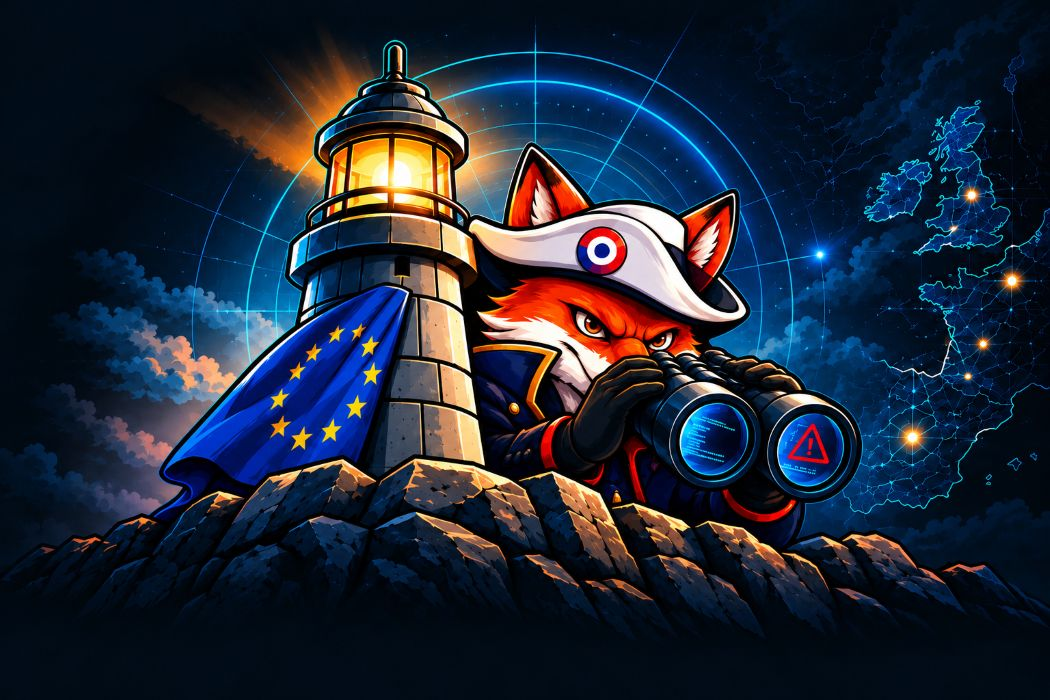
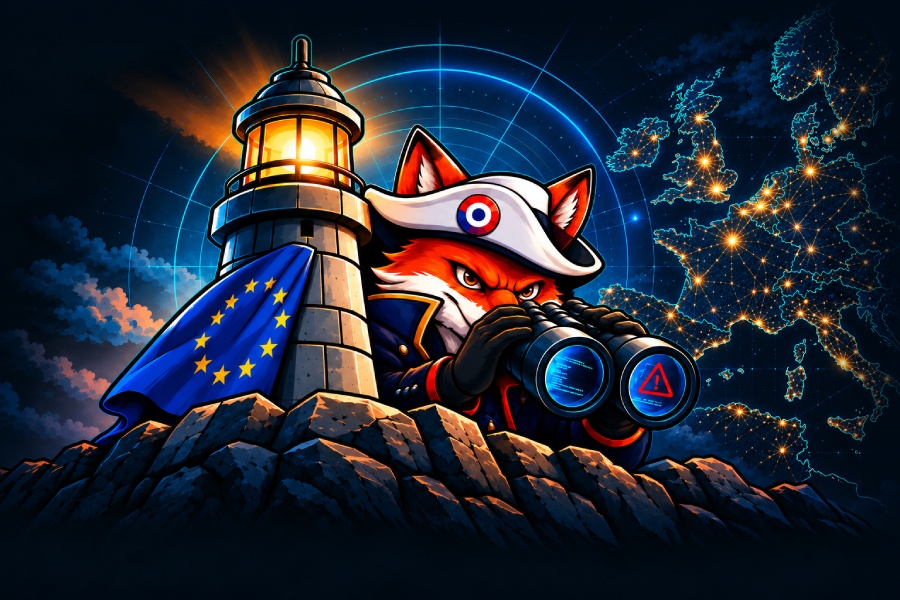
docs: refine demo terminal and compact hero layout

diff --git a/docs/assets/site.css b/docs/assets/site.css
@@ -241,7 +241,7 @@ svg.icon {
   display:none;
 }
 
-/* Hero follows the supplied mockup: oversized type, illustration, live HTML terminal. */
+/* Hero follows the supplied mockup: oversized type, illustration, HTML terminal. */
 .hero-shell {
   padding:0;
   position:relative;
@@ -263,12 +263,12 @@ svg.icon {
 
 .hero {
   padding-top:70px;
-  padding-bottom:48px;
+  padding-bottom:28px;
   display:grid;
   grid-template-columns:minmax(0,1fr) minmax(0,1fr);
   gap:32px;
   align-items:start;
-  min-height:755px;
+  min-height:0;
 }
 
 .hero-copy {
@@ -398,7 +398,7 @@ h1 .l2 {
 .hero-visual {
   position:relative;
   min-width:0;
-  padding-top:386px;
+  padding-top:330px;
 }
 
 .hero-art {
@@ -410,7 +410,9 @@ h1 .l2 {
   left:-105px;
   top:-60px;
   aspect-ratio:3/2;
-  object-fit:cover;
+  transform:scale(.84);
+  transform-origin:top center;
+  object-fit:contain;
   mask-image:linear-gradient(90deg,transparent,#000 10%,#000 95%,transparent),linear-gradient(#000 65%,transparent 100%);
   mask-composite:intersect;
 }
@@ -421,7 +423,7 @@ h1 .l2 {
   overflow:hidden;
   background:linear-gradient(140deg,#081520f5,#050b13f5);
   border:1px solid #31536c;
-  border-radius:16px;
+  border-radius:10px;
   box-shadow:0 20px 60px #0005;
   min-width:0;
   font-family:var(--mono);
@@ -432,22 +434,66 @@ h1 .l2 {
   align-items:center;
   justify-content:space-between;
   gap:12px;
-  padding:12px 18px;
+  padding:6px 14px;
   border-bottom:1px solid #233e53;
   color:#8eaec9;
   font-size:11px;
   background:#0a1723c9;
 }
 
-.terminal-top .copy {
+.terminal-lights {
+  display:flex;
+  gap:6px;
   flex-shrink:0;
 }
 
+.terminal-lights i {
+  width:8px;
+  height:8px;
+  border-radius:50%;
+  background:#ff6058;
+}
+
+.terminal-lights i:nth-child(2) {
+  background:#febc2e;
+}
+
+.terminal-lights i:nth-child(3) {
+  background:#28c840;
+}
+
+.terminal-shell {
+  color:#91a5bb;
+  font-size:10px;
+}
+
 .terminal pre {
-  font:12px/1.95 var(--mono);
-  padding:17px 21px 4px;
+  font:11px/1.5 var(--mono);
+  padding:10px 16px 8px;
   margin:0;
   overflow-x:auto;
+  color:#d3e4f8;
+}
+
+.terminal pre code {
+  font:inherit;
+  white-space:pre-wrap;
+  overflow-wrap:anywhere;
+}
+
+.terminal .prompt {
+  color:#74e57b;
+}
+
+.terminal .muted {
+  color:#91a5bb;
+}
+
+.terminal .critical {
+  color:#ff8585;
+}
+
+.terminal-cursor {
   color:#d3e4f8;
 }
 
@@ -469,10 +515,16 @@ h1 .l2 {
 }
 
 .terminal-note {
-  font:10px/1.6 var(--mono);
+  display:flex;
+  align-items:center;
+  justify-content:space-between;
+  gap:8px;
+  font:10px/1.5 var(--mono);
   color:#91a5bb;
   margin:0;
-  padding:9px 21px 17px;
+  padding:6px 14px;
+  border-top:1px solid #233e53;
+  white-space:nowrap;
 }
 
 .terminal-note a {
@@ -503,15 +555,6 @@ h1 .l2 {
 .copy .icon {
   width:17px;
   height:17px;
-}
-
-.terminal .copy {
-  color:#c4d8eb;
-  border-color:#355269;
-}
-
-.terminal .copy:disabled {
-  opacity:.6;
 }
 
 /* The five compact benefits from the mockup. */
@@ -1255,11 +1298,8 @@ html[data-theme=light] .theme-toggle .moon {
 
 /* Responsive layout */
 @media(min-width:1600px) {
-  .hero {
-    min-height:790px;
-  }
   .hero-visual {
-    padding-top:406px;
+    padding-top:330px;
   }
   .hero-art {
     top:-60px;
@@ -1295,10 +1335,9 @@ html[data-theme=light] .theme-toggle .moon {
   .hero {
     gap:24px;
     padding-top:52px;
-    min-height:715px;
   }
   .hero-visual {
-    padding-top:320px;
+    padding-top:260px;
   }
   .hero-art {
     top:-25px;
@@ -1384,17 +1423,17 @@ html[data-theme=light] .theme-toggle .moon {
     gap:14px;
   }
   .hero-visual {
-    padding-top:310px;
+    padding-top:260px;
   }
   .terminal pre {
-    padding:15px;
+    padding:10px 12px 8px;
     font-size:10px;
   }
   .terminal-top {
-    padding:10px 13px;
+    padding:6px 12px;
   }
   .terminal-note {
-    padding:8px 15px 14px;
+    padding:6px 12px;
   }
   .benefits {
     grid-template-columns:repeat(3,minmax(0,1fr));
@@ -1516,21 +1555,19 @@ html[data-theme=light] .theme-toggle .moon {
     top:-15px;
     width:calc(100% + 50px);
     left:-25px;
-    max-height:440px;
-    object-fit:cover;
-    object-position:center 45%;
+    max-height:none;
   }
   .terminal-top {
     font-size:10px;
-    padding:12px 15px;
+    padding:6px 12px;
   }
   .terminal pre {
     font-size:11px;
-    padding:16px 17px 4px;
+    padding:10px 12px 8px;
   }
   .terminal-note {
     font-size:10px;
-    padding:8px 17px 16px;
+    padding:6px 12px;
   }
   .benefits {
     grid-template-columns:1fr 1fr;

diff --git a/docs/index.html b/docs/index.html
@@ -55,17 +55,27 @@
     </div>
     <div class="hero-visual">
       <img class="hero-art" src="assets/sentinel-hero.jpg" alt="A fox sentinel watches through binoculars beside a glowing lighthouse, with a European flag and a blue radar map." width="1536" height="1024" fetchpriority="high">
-      <div class="terminal" aria-label="Excerpt from a real offline CLI scan">
-        <div class="terminal-top"><span>VigieVuln 1.0.1 — real offline scan · excerpt</span><button class="copy" type="button" data-copy="vigievuln -s test/fixtures/monorepo-mixed --offline --no-report" aria-label="Copy the fixture scan command"><svg class="icon " aria-hidden="true"><use href="#i-copy"></use></svg></button></div>
-<pre><b>vigievuln</b> -s test/fixtures/monorepo-mixed
-          --offline --no-report
-
-<span class="ok">[OK]</span>  Maven       4 modules · 7 direct dependencies
-<span class="ok">[OK]</span>  npm/yarn    9 dependencies
-<span class="ok">[OK]</span>  Yarn        7 dependencies
-<span class="info">[INFO]</span> Cached data only. No network requests.
-<span class="warn">[WARN]</span> OSV cache incomplete — coverage has gaps.</pre>
-        <p class="terminal-note">Recorded 27 Oct 2026. Offline results depend on cached data.<br><a href="#reports">Explore complete sample reports ↗</a></p>
+      <div class="terminal" role="region" aria-label="Terminal: excerpts from an offline VigieVuln scan" aria-describedby="terminal-caption">
+        <div class="terminal-top"><span class="terminal-lights" aria-hidden="true"><i></i><i></i><i></i></span><span>bash — monorepo-mixed</span><span class="terminal-shell" aria-hidden="true">~/projects</span></div>
+<pre tabindex="0" aria-label="Scan command and output"><code><span class="prompt">$</span> <b>vigievuln</b> -s test/fixtures/monorepo-mixed \
+    --offline --no-report
+<b>VigieVuln v1.0.1</b> <span class="muted">· Autonomous Dependency Checker</span>
+<span class="info">▸ Collection</span>
+  <span class="ok">✓</span> Maven    4 module(s) · 7 direct dep(s)
+  <span class="ok">✓</span> npm/yarn 9 dep(s)
+  <span class="ok">✓</span> Yarn     7 dep(s)
+  <span class="muted">…</span>
+<span class="info">▸ Vulnerability database update</span>
+  · --offline: cached data only, no network
+  <span class="muted">…</span>
+<span class="info">▸ Results</span>
+  CVE · production <b>(135)</b> <span class="critical">12 critical</span> <span class="warn">66 high</span> 50 medium 7 low <span class="critical">2 KEV</span>
+  <span class="critical">CRITICAL CVE-2021-44228</span> log4j-core:2.14.0 <span class="critical">KEV</span>
+  <span class="muted">…</span>
+  <span class="warn">⚠ Offline OSV cache incomplete: 10 lookups unavailable.</span>
+  · --no-report: no files written (scan + gate only)
+<span class="prompt">$</span> <span class="terminal-cursor" aria-hidden="true">▍</span></code></pre>
+        <p class="terminal-note" id="terminal-caption"><span>Real scan · excerpt</span><a href="#reports">Sample reports ↗</a></p>
       </div>
     </div>
   </div>
